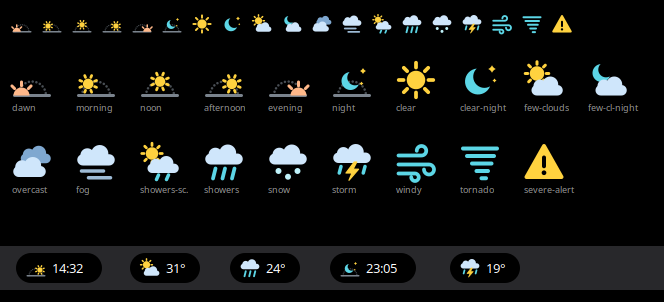
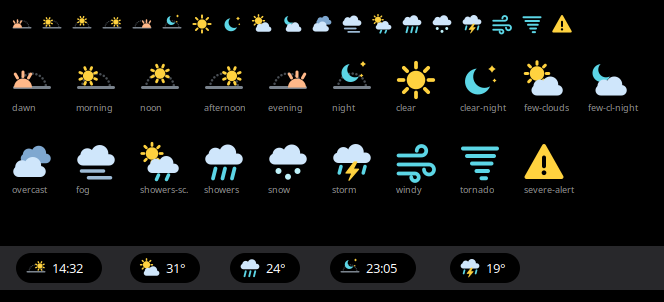
fix(clock): the daypart horizon level with the time's baseline
The dayparts were drawn on the grid's bottom edge (horizon at y 14.2), so at
20 px the scene sat 1.5 px under the digits of the time, and the dawn/evening
half sun ran past the edge. Horizon, arc, sun and moon are raised to y 11:
measured in headless Shell, the horizon then falls on the time's baseline row.
The half sun is a little bigger and moved in, with steeper rays.
tests/icons.test.js checks the horizon at y 11, every icon inside the grid
(librsvg's ink box) and every weather icon centred.

Refs: FEATURES.md M3 "clock"

diff --git a/tests/icons.test.js b/tests/icons.test.js
@@ -56,8 +56,21 @@ for (const name of ALL) {
         ok(Number(sw[1]) >= 1 || /stroke-linejoin|id="bolt"/.test(svg), `${name}: stroke ${sw[1]} is thinner than 1 px`);
     const firstId = svg.match(/id="([a-z-]+)"/)?.[1];
     ok(firstId, `${name}: parts carry ids`);
-    if (Rsvg)
-        ok(Rsvg.Handle.new_from_file(`${dir}/${name}.svg`).has_sub(`#${firstId}`), `${name}: librsvg parses it and finds #${firstId}`);
+    if (Rsvg) {
+        const handle = Rsvg.Handle.new_from_file(`${dir}/${name}.svg`);
+        ok(handle.has_sub(`#${firstId}`), `${name}: librsvg parses it and finds #${firstId}`);
+        // Inside the grid (ink past the edge is cut; antialiased round caps may reach half a
+        // pixel out), and a weather icon centred on it. The dayparts are placed by their
+        // horizon instead (below): a scene with the sun or moon high is top-heavy by design
+        const [, ink] = handle.get_geometry_for_layer(null, new Rsvg.Rectangle({x: 0, y: 0, width: 16, height: 16}));
+        const [cx, cy] = [ink.x + ink.width / 2, ink.y + ink.height / 2];
+        if (name.startsWith('weather-')) {
+            ok(Math.abs(cx - 8) <= 1.2 && Math.abs(cy - 8) <= 1.2,
+                `${name}: its drawing centred within 1.2 px of the grid's centre, is at (${cx.toFixed(1)}, ${cy.toFixed(1)})`);
+        }
+        ok(ink.x >= -0.5 && ink.y >= -0.5 && ink.x + ink.width <= 16.5 && ink.y + ink.height <= 16.5,
+            `${name}: inside the 16 grid (${ink.x.toFixed(1)}, ${ink.y.toFixed(1)}, ${(ink.x + ink.width).toFixed(1)}, ${(ink.y + ink.height).toFixed(1)})`);
+    }
 }
 
 // One family: the parts are shared drawings
@@ -66,6 +79,9 @@ const dayparts = DAYPARTS.map(read);
 const horizon = dayparts[0].match(/<path id="arc".*?<line id="horizon"[^>]*>/)[0];
 for (const [i, svg] of dayparts.entries())
     ok(svg.includes(horizon), `${DAYPARTS[i]}: the same horizon and arc as dawn`);
+// The horizon at y 11: at 20 px in the idle pill it falls on the time's baseline row (measured
+// in headless Shell, 2026-11-06, Ethan); at 14.2 the scene sat 1.5 px under the digits
+ok(/<line id="horizon" x1="1" y1="11" x2="15" y2="11"/.test(dayparts[0]), 'the horizon at y 11, level with the time\'s baseline');
 ok(!read('daypart-night').includes('id="sun"') && read('daypart-night').includes('id="moon"'), 'night: moon, no sun');
 ok(read('daypart-dawn').includes('#FFB889') && read('daypart-evening').includes('#FFB889'), 'dawn and evening: peach sun');
 const cloudy = ['few-clouds', 'few-clouds-night', 'overcast', 'fog', 'showers-scattered', 'showers', 'snow', 'storm'].map(c => `weather-${c}`);

diff --git a/scripts/icons.js b/scripts/icons.js
@@ -44,10 +44,11 @@ function sun(cx, cy, r, ri, ro, sw, {color = SUN, n = 8, off = 0} = {}) {
     return `<g id="sun"><circle cx="${f(cx)}" cy="${f(cy)}" r="${f(r)}" fill="${color}"/>${rays.join('')}</g>`;
 }
 
-// The upper half of a disc on the horizon, with three rays.
+// The upper half of a disc on the horizon, with three rays (steep enough to stay inside
+// the grid at either end of the horizon).
 function halfSun(cx, cy, r, ri, ro, sw, color = PEACH) {
     const disc = `<path d="M${f(cx - r)} ${f(cy)}A${f(r)} ${f(r)} 0 0 1 ${f(cx + r)} ${f(cy)}Z" fill="${color}"/>`;
-    const rays = [225, 270, 315].map(deg => ray(cx, cy, ri, ro, deg, sw, color));
+    const rays = [240, 270, 300].map(deg => ray(cx, cy, ri, ro, deg, sw, color));
     return `<g id="sun">${disc}${rays.join('')}</g>`;
 }
 
@@ -95,7 +96,10 @@ const svg = (...parts) =>
     `<svg xmlns="http://www.w3.org/2000/svg" width="16" height="16" viewBox="0 0 16 16">${parts.join('')}</svg>\n`;
 
 // ---- dayparts: one horizon and one faint dotted arc, shared ------------------------
-const HY = 14.2;
+// the horizon sits at 11, not at the bottom: at 20 px in the idle pill it falls on the
+// time's baseline row (measured in headless Shell, 2026-11-06, Ethan); on the grid's
+// bottom edge (14.2) the scene read as sunk 1.5 px under the digits
+const HY = 11;
 const AR = 5.6;
 const horizon = () =>
     `<path id="arc" d="M${f(8 - AR)} ${f(HY)}A${f(AR)} ${f(AR)} 0 0 1 ${f(8 + AR)} ${f(HY)}" fill="none" ` +
@@ -107,12 +111,12 @@ const [ax, ay] = onArc(56);
 const arcSun = (x, y) => sun(x, y, 2.1, 2.8, 3.6, 1.1, {off: 22.5});
 
 const icons = {
-    'daypart-dawn': svg(horizon(), halfSun(3.8, HY, 3.2, 3.9, 5.4, 1.2)),
+    'daypart-dawn': svg(horizon(), halfSun(4.4, HY, 3.6, 4.4, 6.2, 1.2)),
     'daypart-morning': svg(horizon(), arcSun(mx, my)),
     'daypart-noon': svg(horizon(), arcSun(8, HY - AR)),
     'daypart-afternoon': svg(horizon(), arcSun(ax, ay)),
-    'daypart-evening': svg(horizon(), halfSun(12.2, HY, 3.2, 3.9, 5.4, 1.2)),
-    'daypart-night': svg(horizon(), moon(7.4, 8.4, 3.6), star(12.4, 4.4, 1.2), star(11.8, 9.4, 0.75)),
+    'daypart-evening': svg(horizon(), halfSun(11.6, HY, 3.6, 4.4, 6.2, 1.2)),
+    'daypart-night': svg(horizon(), moon(7.4, 5.2, 3.6), star(12.4, 1.6, 1.2), star(11.8, 6.2, 0.75)),
 
     // ---- weather: GWeather's conditions; sun or moon behind the cloud, upper left ----
     'weather-clear': svg(sun(8, 8, 3.7, 5.0, 6.9, 1.5)),

diff --git a/docs/FEATURES.md b/docs/FEATURES.md
@@ -110,6 +110,7 @@ Nothing user-visible until M1 is done; everything else depends on it.
 | [x] | **clock** (idle plan) | — | 1 min tick while idle | `idle-clock-style` | icon by time of day (`kit/daypart.js`) + time; variants | — |
 | | ↳ 2026-11-04 `modules/clock/idle.js` (pure: `present`, `seconds`, `relevance` 10, `keys`) and six colour daypart SVGs in `icons/` (Ethan: one icon per part, colour, 20 px). `kit/idle.js` `IdleContent`: the plan for `idle-content`, GNOME's wall clock as the tick (minute, or second with `seconds`; right after suspend), alive only while the idle pill is on screen (`Island.onIdleShown`: no activity, not expanded, not hidden). Schema: `modules-clock`, `idle-content` (`none`/`clock`, default `clock` until `auto`), `idle-clock-style`. Prefs: General became the **Island** page (When Idle, Plans → Clock → Style, Pill), the start of #101; a plan whose module is off is greyed. `daypart-starts` still has no row (six hours want their own control, with #101) | | | | | |
 | | ↳ 2026-11-06 icon set redrawn as one family (Ethan's brief: 20 px in the idle pill first, 40 px in the hover card, always on black; flat filled shapes, no gradients/outlines/text; none of the four status-light colours): the six dayparts share one horizon and faint dotted arc, the sun at 124° / top / 56° of the arc, a peach half sun at the left or right end for dawn/evening, a teal crescent + two stars for night; and 13 `weather-*.svg` for GWeather's conditions (one cloud shape reused, sun/moon behind it upper-left, rain/snow/bolt below) for the weather plan's branch to pick up. Palette A: sun #FFD23F, peach #FFB889, cloud #CFE6FB over a #7FA8D0 back cloud, teal #5CD6E6 for moon/rain/wind, snow #BFF2FA, fog #9DBBD6, horizon #7A838D. `scripts/icons.js` (gjs) is the source: it writes the SVGs (parts carry ids — sun, moon, cloud, rain, snow, bolt, wind — so a tab can split and animate them later) and renders `docs/icons.png` (20 px row, 40 px grid, mock pills). `tests/icons.test.js`: 16 grid, flat, palette, no status colours, shared horizon/cloud/sun/moon, librsvg parses each | | | | | |
+| | ↳ 2026-11-06 (Ethan: the clock icon sat low next to the time) the dayparts were drawn on the grid's bottom edge (horizon at y 14.2): at 20 px the horizon fell 1.5 px under the digits of the time, and the dawn/evening half sun ran past the edge (x −0.6 / 16.6). Horizon, arc, sun and moon raised to y 11 (tried 12.2 and 11.2 with Ethan; measured in headless Shell, y 11 puts the horizon on the time's baseline row); the half sun a little bigger, moved in, its rays at 240/270/300°. `tests/icons.test.js`: the horizon at y 11, every icon inside the grid (librsvg's ink box, ½ px of antialias at most), every weather icon centred within 1.2 px. Seen in headless Shell: the six dayparts beside "19:23" | | | | | |
 | [ ] | **notifications** (moved from M4 2026-11-06, Ethan: core to the island, not a wow item): compact with the notification's own actions; DND; notifications tab with history (SPEC §6; the tab already shows from a stub module, 2026-11-02) | notification | MessageTray (`getSources`, `source-added`, `notification-added`) | — | Reply/Mark read/Open; bodies hidden while screen sharing; tab lists the same notifications as the stock message list, dismiss syncs both ways; Home's Missed group moves to the top of the tab ("Missed while away"), a missed notification points to the real one (SPEC §3, 2026-11-03); Shell's "Screenshot captured" / "Screencast recorded" through an override: pill 1 ~3 s, not missed, thumbnail minimal, compact with "Show in Files", Delete (to the Trash) and open (SPEC §2e, 2026-11-05; M4's "Screenshot taken" row #78 merged in 2026-11-06, Ethan — Copy dropped: Shell already put the shot on the clipboard) | 8 |
 | [x] | **weather** (idle plan) | — | `ui/weather.js` client | `idle-weather-refresh` | icon + temp; compact (hover) wind/humidity/feels-like | — |
 | | ↳ 2026-11-06 `modules/weather/`: `idle.js` (pure: `present` → icon + "31°" and a compact "31° · Partly cloudy" / "Feels like 34° · Wind NE 12 km/h · Humidity 75%", `relevance` per SPEC §2a-iii, `ticks: false`), `read.js` (pure: GWeather.Info → plain state, the `get_value_*` getters and the first forecast within the hour), `feed.js` (the date menu's own WeatherClient, `dateMenu.js` WeatherSection: same place, no second client — one of Buoy's own could not be dropped on disable; `changed` re-reads; `update()` only while the idle pill shows weather, at once when older than `idle-weather-refresh`, then on that interval). Kit: `kit/idle.js` makes a plan's feed while its plan is in use and passes its state as `ctx.data`, no wall clock for `ticks: false`; `pill.js` gives the idle pill its plan's compact on hover (the amber missed list still wins); `present.js` names the idle pill by the plan's `accessibleName`. Icons: the 13 `icons/weather-*.svg` of the redrawn family (#131; Ethan: GNOME's symbolic ones read flat), GNOME's symbolic as fallback. Schema: `modules-weather`, `idle-content` + `weather`, `idle-weather-refresh` (`30m` \| `1h`). The place (Ethan: no GNOME Weather on Ubuntu): "Use my location" (`idle-weather-automatic`, on) — each ask first asks Geoclue once as `org.gnome.Shell` (system app, no dialog, needs Location Services) and puts the nearest GWeather city first in `org.gnome.shell.weather` `locations`, then stops it; off — a city searched in prefs (GWeather's ~4300 cities, `searchPlaces`, accents ignored; picking turns "Use my location" off). Prefs: Weather's plan row on Island with its switch, Use my location, Refresh, Place, the search; the row says why it cannot show (`weatherNote`), and "Location Services is off" carries Open Settings (Settings' `launch-panel` → Privacy). Tests: `tests/weather.test.js` (rounding, words, wind, every condition's icon file, the pill and compact, missing values, relevance, read.js with a fake info), settings (Island plans, refresh choices, the note). Run in headless Shell 50.1 with Ho Chi Minh in the test dconf and the real met.no data: "84°" (en_US: °F) with the sun, hover → the compact, click → Home and Esc, refresh timer gone while expanded or an activity shows and back after (no fetch when recent), a stale feed fetches once, the timer refires, Show Clock ↔ Weather and Weather off/on make and drop the feed (its `changed` handler gone), no place → only the light, disable/enable ×2, no log line from Buoy. Place: Geoclue as `org.gnome.Shell` reached and refused ("Geolocation disabled", the real session's Location Services is off; logged at debug only); with Geoclue faked in the test Shell, Hanoi was written first and shown, Geoclue stopped, the same place again only updated; prefs search "chi minh" → Ho Chi Minh City picked, written first, Use my location off, the pill followed; Location Services off → the note and Open Settings, which opened Settings on Privacy. Not seen: a real Geoclue fix (would need Location Services on in the real session), a real °C locale. | | | | | |
